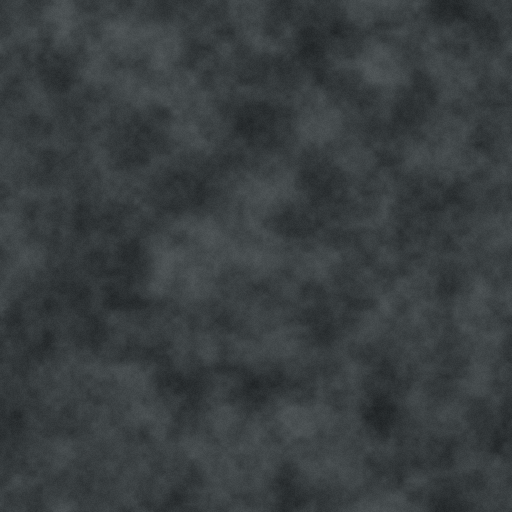
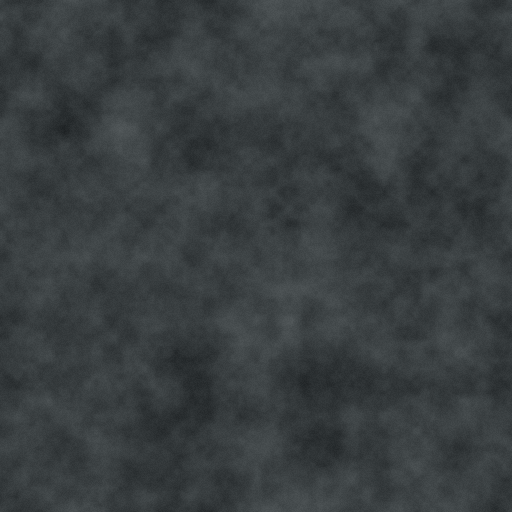
Podłoże: koniec rozmazywania — mieszanie odmian offline, wypiek w pełnej skali
Trawa była rozmazana i to był mój błąd, konkretny. Wypiek podłoża szedł
w POŁOWIE rozdzielczości, bo gdy go pisałem, grunt był proceduralnym szumem
o niskich częstotliwościach i połowa nic nie kosztowała. Gdy trawa zaczęła
pochodzić z płachty fotograficznej, połowa zjadła jej źdźbła.

Prosta poprawka — wypiek 1:1 — nie wystarczała, bo wypiek istniał po to, żeby
zdjąć koszt masek mieszających odmiany trawy. Więc mieszanie zeszło o poziom
niżej: tools/grunt.py składa trzy odmiany w JEDNĄ płachtę o podwojonym boku
(2048), offline. Bezszwowość zachowana, bo każde źródło kafluje się samo,
a wagi biorą się z szumu zawijanego na tym samym boku. Podwojony bok podwaja
przy okazji okres powtarzania, a to właśnie długość okresu, nie jakość styków,
decyduje o widocznej kracie.

Dzięki temu w silniku nie ma już ani jednej maski poza traktem, a wypiek może
iść w pełnej rozdzielczości — obcinanej tylko tyle, ile trzeba, żeby przy mapie
4 000 px zmieścić się w limicie tekstury.

Zmierzone trzy warianty tego samego kadru:
  wypiek 0.5      — rozmazana, 15 fps
  bez wypieku     — ostra, 7 fps (trzy pełnoekranowe warstwy co klatkę)
  wypiek 1:1      — ostra, 14 fps

Claude-Session: https://claude.ai/code/session_019zrYGM3CL8Czw9VD7FFQBK

diff --git a/src/render.js b/src/render.js
@@ -211,16 +211,23 @@ function buildGround(){
   const T = CELL;
   const wx = WV.x - T, wy = WV.y - T, ww = WV.w + 2*T, wh = WV.h + 2*T;
 
-  /* Warstwy podłoża składane są do POMOCNICZEGO kontenera i wypiekane w jedną
-     teksturę. Powód jest zmierzony: maski Pixi liczą się co klatkę na obwiedni
-     maskowanego obiektu, a ta obejmuje całą mapę — przy 4 000 px to render
-     wielkości czterech megapikseli na każdą klatkę i klatkaż spadł z 15 na 6.
-     Grunt jest statyczny przez całą misję, więc wystarczy raz.
+  /* WYPIEK — WSZYSTKIE warstwy podłoża składane raz na misję do jednej tekstury.
 
-     Wypiek idzie w połowie rozdzielczości: podłoże to same niskie częstotliwości,
-     a mapa 4 000 px wyszłaby poza limit tekstury. Ozdoby i ślady walki zostają
-     osobnymi sprite'ami NAD wypiekiem, bo one mają ostre krawędzie i połowa
-     rozdzielczości byłaby na nich widoczna.                                    */
+     Dwie rzeczy wymusiły dokładnie taki kształt, obie zmierzone:
+
+     1. Warstwy NIE MOGĄ iść na ekran na żywo. Trakt potrzebuje maski, a maska
+        Pixi liczy się co klatkę na obwiedni maskowanego obiektu, czyli na całej
+        mapie. Nawet bez masek trzy pełnoekranowe warstwy z mnożeniem kosztują
+        swoje: 15 fps z wypiekiem, 7-8 bez niego.
+
+     2. Wypiek MUSI iść w pełnej rozdzielczości. Pierwsza wersja szła w połowie,
+        bo podłoże było wtedy proceduralnym szumem o niskich częstotliwościach.
+        Gdy trawa zaczęła pochodzić z płachty fotograficznej, połowa zjadła jej
+        źdźbła i pole zrobiło się rozmazane.
+
+     Stąd `res`: jeden, obcinany tylko tyle, ile trzeba, żeby przy mapie 4 000 px
+     zmieścić się w limicie tekstury. Mieszanie odmian trawy zeszło do
+     tools/grunt.py, więc tutaj nie ma już ani jednej maski poza traktem.      */
   const warstwy = new PIXI.Container();
   const plachta = (nazwa, kratek, x, y, w, h, gdzie) => {
     const t = groundTex(nazwa); if (!t) return null;
@@ -232,19 +239,7 @@ function buildGround(){
     return sp;
   };
 
-  plachta('trawa', 14, wx, wy, ww, wh);                 // 1) pobocze na całą mapę
-
-  /* Odmiany trawy wtopione maskami o INNYM okresie niż sam grunt. To jest
-     właściwe lekarstwo na widoczną kratę: nie ukrywanie styków (zmierzony szew
-     płachty to 0,68 przy medianie szumu 0,71 — niewidoczny), tylko wydłużenie
-     okresu, po którym deseń wraca. Trzy trawy i dwie maski o różnych okresach
-     dają wspólny rytm dłuższy niż ekran, więc nie ma czego złapać.            */
-  for (const [odm, mska, kratek] of [['trawa2','maska1',11], ['trawa3','maska2',17]]){
-    const w = plachta(odm, kratek, wx, wy, ww, wh);
-    if (!w) continue;
-    const m = plachta(mska, 23, wx, wy, ww, wh);
-    if (m) { w.mask = m; } else { w.alpha = 0.5; }
-  }
+  plachta('trawa', 28, wx, wy, ww, wh);                 // 1) pobocze na całą mapę
 
   const ziemia = plachta('ziemia', 8, wx, wy, ww, wh);  // 2) trakt pod miękką maską
   if (ziemia){
@@ -259,14 +254,20 @@ function buildGround(){
   const pl = plachta('plamy', 34, wx, wy, ww, wh);
   if (pl) pl.blendMode = 'multiply';
 
+  const res = Math.min(1, 4000/Math.max(1, ww), 4000/Math.max(1, wh));
   const wypiek = app.renderer.generateTexture({
-    target: warstwy, resolution: 0.5,
+    target: warstwy, resolution: res,
     frame: new PIXI.Rectangle(wx, wy, ww, wh),
   });
   warstwy.destroy({ children: true });
   const podloze = new PIXI.Sprite(wypiek);
   podloze.x = wx; podloze.y = wy; podloze.width = ww; podloze.height = wh;
   groundLayer.addChild(podloze);
+
+  const polozWprost = (t, x, y, sz) => {
+    const sp = new PIXI.Sprite(t); sp.width = sz; sp.height = sz;
+    sp.x = x; sp.y = y; groundLayer.addChild(sp); return sp;
+  };
 
   /* 4) ŚLADY WALKI — leje, wraki i pożary na trakcie, gęściej ku bastionowi.
      To one mówią, że tędy się już przetaczało. Rozstawiane po kratce, więc
@@ -275,10 +276,6 @@ function buildGround(){
   const gy0 = Math.floor(wy/T), gy1 = Math.ceil((wy+wh)/T);
   const END = fieldEnd();
   const marks = [markTex('lej'), markTex('wrak'), markTex('ogien')].filter(Boolean);
-  const polozWprost = (t, x, y, sz) => {
-    const sp = new PIXI.Sprite(t); sp.width = sz; sp.height = sz;
-    sp.x = x; sp.y = y; groundLayer.addChild(sp); return sp;
-  };
   if (marks.length){
     for (let gy = gy0; gy <= gy1; gy++) for (let gx = gx0; gx <= gx1; gx++){
       const x = gx*T + T/2, y = gy*T + T/2;

diff --git a/src/assets.js b/src/assets.js
@@ -158,11 +158,7 @@ export const DECORSET = {
 
    Płachty robi tools/grunt.py — z płachty generatora albo z szumu.            */
 export const GROUND = {
-  trawa:  'assets/tiles/grunt-trawa.png',
-  trawa2: 'assets/tiles/grunt-trawa-2.png',   // odmiany mieszane maskami —
-  trawa3: 'assets/tiles/grunt-trawa-3.png',   // patrz maska1/maska2 niżej
-  maska1: 'assets/tiles/grunt-maska1.png',
-  maska2: 'assets/tiles/grunt-maska2.png',
+  trawa:  'assets/tiles/grunt-trawa.png',     // odmiany są już w niej zmieszane
   ziemia: 'assets/tiles/grunt-ziemia.png',
   beton:  'assets/tiles/grunt-beton.png',
   plamy:  'assets/tiles/grunt-plamy.png',

diff --git a/tools/grunt.py b/tools/grunt.py
@@ -179,19 +179,54 @@ def wczytaj(nazwa, cfg, plik, wzor):
     return a, 'szum'
 
 
+def zloz(warstwy, seed):
+    """Zmieszaj odmiany w JEDNĄ płachtę, o boku dwa razy większym niż źródła.
+
+    Mieszanie robione było wcześniej w silniku — maskami na osobnych warstwach.
+    Działało, ale wymuszało wypiek całego podłoża do tekstury (maski liczą się
+    co klatkę na obwiedni maskowanego obiektu, czyli na całej mapie), a wypiek
+    szedł w połowie rozdzielczości i ROZMAZYWAŁ trawę. Przy proceduralnym szumie
+    to nie miało znaczenia, przy płachcie z fotografii owszem.
+
+    Zrobione tutaj, offline, nie kosztuje nic w czasie gry i zostawia teksturę
+    ostrą. Bok jest podwojony, więc okres powtarzania też się podwaja — a to
+    właśnie długość okresu, nie jakość styków, decyduje o widocznej kracie.
+
+    Bezszwowość zachowana: każde źródło kafluje się samo, a wagi mieszania biorą
+    się z szumu zawijanego na tym samym boku."""
+    n = len(warstwy)
+    if n == 1: return warstwy[0]
+    h, w, _ = warstwy[0].shape
+    H, W = h*2, w*2
+    global SIZE
+    stare, SIZE = SIZE, H
+    rng = np.random.default_rng(seed)
+    wagi = [pole(rng, 0.5) for _ in range(n)]          # po jednej mapie wag na odmianę
+    SIZE = stare
+    wagi = [np.clip((x - 0.35) * 2.2, 0, 1) + 0.12 for x in wagi]
+    suma = np.sum(wagi, axis=0)
+    out = np.zeros((H, W, 3), dtype=np.float32)
+    for a, g in zip(warstwy, wagi):
+        kafel = np.tile(a, (H//h + 1, W//w + 1, 1))[:H, :W]
+        out += kafel * (g / suma)[..., None]
+    return out
+
+
 def zrob(nazwa, cfg, seed):
     zrodla = ZRODLA.get(nazwa) or ['']
     if isinstance(zrodla, str): zrodla = [zrodla]
-    wzor = None
-    for i, plik in enumerate(zrodla):
+    odmiany, skady, wzor = [], [], None
+    for plik in zrodla:
         a, skad = wczytaj(nazwa, cfg, plik, wzor)
-        if i == 0: wzor = a
-        sufiks = '' if i == 0 else f'-{i+1}'
-        out = os.path.join(ROOT, WYJSCIE, f'grunt-{nazwa}{sufiks}.png')
-        os.makedirs(os.path.dirname(out), exist_ok=True)
-        Image.fromarray(np.clip(a, 0, 255).astype(np.uint8)).save(out)
-        print('zapisano', os.path.relpath(out, ROOT),
-              f'{a.shape[1]}×{a.shape[0]}', '·', skad)
+        if wzor is None: wzor = a
+        odmiany.append(a); skady.append(skad)
+        if skad == 'szum': break          # bez płacht nie ma czego mieszać
+    a = zloz(odmiany, seed)
+    out = os.path.join(ROOT, WYJSCIE, f'grunt-{nazwa}.png')
+    os.makedirs(os.path.dirname(out), exist_ok=True)
+    Image.fromarray(np.clip(a, 0, 255).astype(np.uint8)).save(out)
+    print('zapisano', os.path.relpath(out, ROOT), f'{a.shape[1]}×{a.shape[0]}',
+          '·', ' + '.join(skady))
 
 
 def plamy():
@@ -218,29 +253,8 @@ def plamy():
     print('zapisano', os.path.relpath(out, ROOT), f'{SIZE}×{SIZE}', '· wolna zmienność')
 
 
-def maski(ile=2):
-    """Maski mieszające odmiany gruntu — przezroczystość z wolnego szumu.
-
-    Okres masek jest inny niż okres gruntu i inny między sobą, więc wspólny rytm
-    wszystkich warstw wypada dużo dłuższy niż ekran. To jest właściwy sposób na
-    powtarzalność: nie ukrywanie styków, tylko wydłużenie okresu."""
-    for i in range(ile):
-        rng = np.random.default_rng(900 + i*37)
-        f = (szum(rng, 4)*0.60 + szum(rng, 8)*0.28 + szum(rng, 16)*0.12)
-        f = (f - f.min()) / max(1e-6, float(np.ptp(f)))
-        f = np.clip((f - 0.42) * 2.6, 0, 1)        # kontrast: kępy, nie mgła
-        a = np.zeros((SIZE, SIZE, 4), dtype=np.uint8)
-        a[:, :, :3] = 255
-        a[:, :, 3] = (f*255).astype(np.uint8)
-        out = os.path.join(ROOT, WYJSCIE, f'grunt-maska{i+1}.png')
-        Image.fromarray(a).save(out)
-        print('zapisano', os.path.relpath(out, ROOT), f'{SIZE}×{SIZE}',
-              '· maska mieszania', i+1)
-
-
 if __name__ == '__main__':
     os.makedirs(os.path.join(ROOT, WYJSCIE), exist_ok=True)
     for i, (nazwa, cfg) in enumerate(MATERIALY.items()):
         zrob(nazwa, cfg, 1000 + i)
     plamy()
-    maski()
